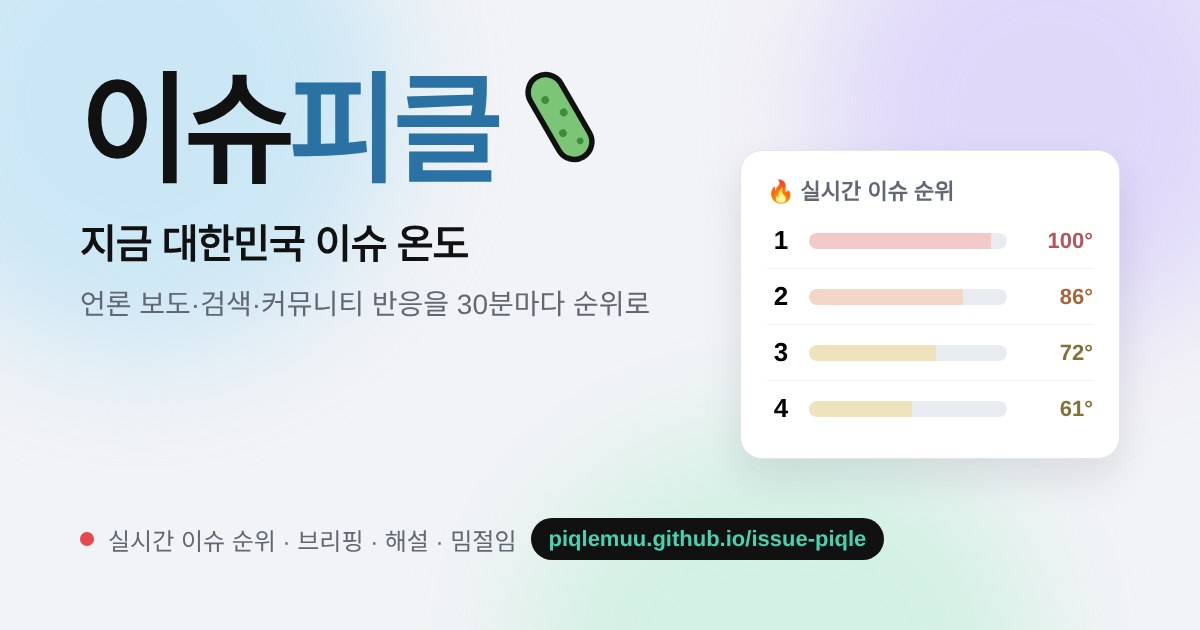
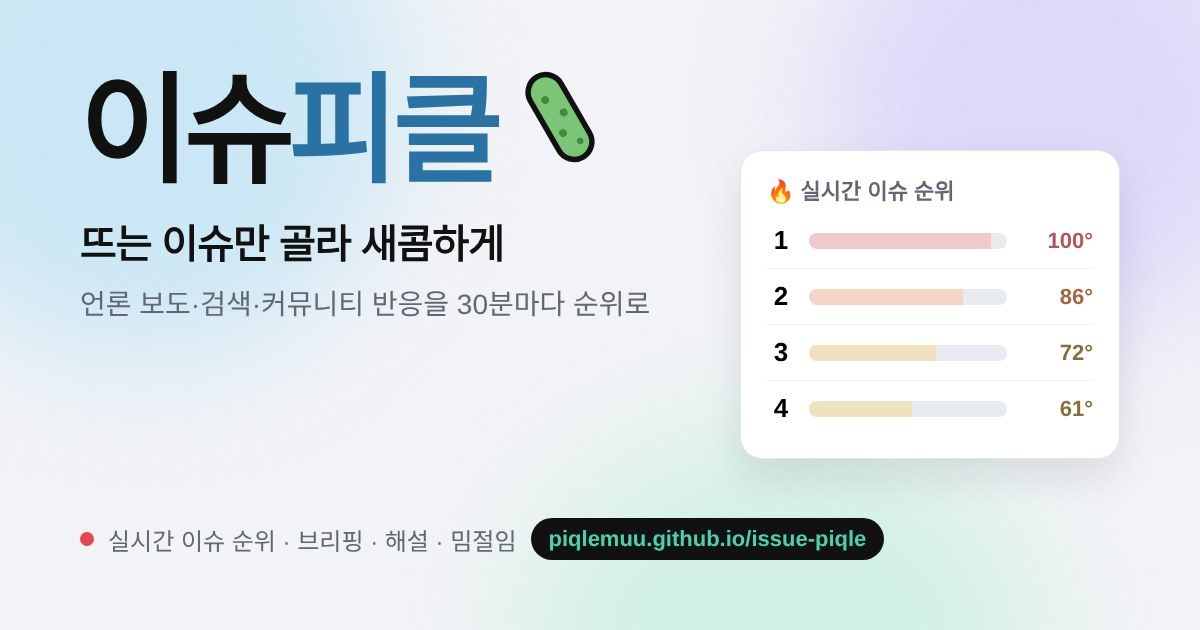
Add files via upload

Changed region(s): [[0.0617, 0.3619, 0.4317, 0.4222]]

diff --git a/site/index.html b/site/index.html
@@ -3,7 +3,7 @@
 <head>
 <meta charset="utf-8">
 <meta name="viewport" content="width=device-width, initial-scale=1, viewport-fit=cover">
-<title>이슈피클 - 지금 대한민국 이슈 온도</title>
+<title>이슈피클 - 뜨는 이슈만 골라 새콤하게 | 실시간 이슈 순위</title>
 <meta property="og:site_name" content="이슈피클">
 <meta property="og:image" content="https://piqlemuu.github.io/issue-piqle/og.jpg">
 <meta property="og:image:width" content="1200">
@@ -12,8 +12,8 @@
 
 <meta name="description" content="뉴스·검색·영상 데이터를 모아 지금 한국에서 화제인 이슈를 30분마다 온도 순위로 보여드립니다. 실시간 이슈, 이슈 인물, 분야별 이슈, 검색 급상승, 뜨는 영상.">
 <meta name="keywords" content="실시간 이슈, 이슈 순위, 검색어 순위, 실검, 오늘 뉴스, 연예 이슈, 경제 이슈, 인기 영상">
-<meta property="og:title" content="이슈피클 - 지금 대한민국 이슈 온도">
-<meta property="og:description" content="30분마다 갱신되는 실시간 이슈 온도 순위">
+<meta property="og:title" content="이슈피클 - 뜨는 이슈만 골라 새콤하게">
+<meta property="og:description" content="언론 보도·검색·커뮤니티 반응을 모아 30분마다 갱신하는 실시간 이슈 순위">
 <meta property="og:type" content="website">
 <!-- 검색엔진 주인 확인 (지우지 마세요) -->
 <meta name="google-site-verification" content="fFa15tCNDL9lGcycd2geDuBrjmq7XVXEo61L4eQZm0Y" />
